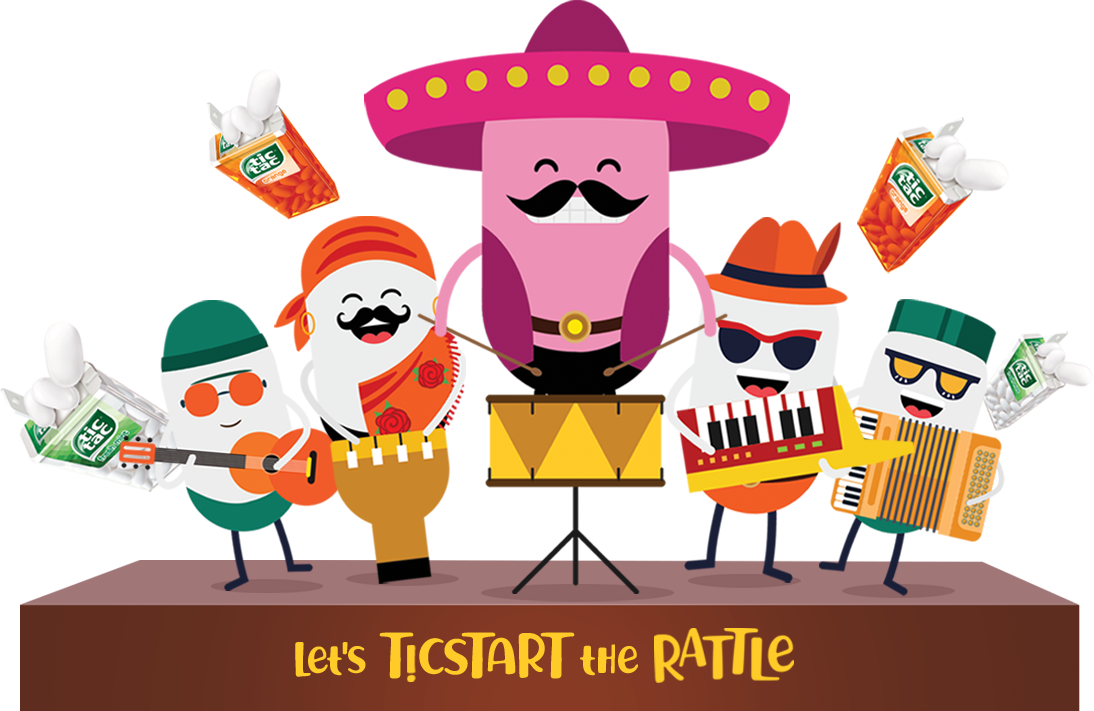
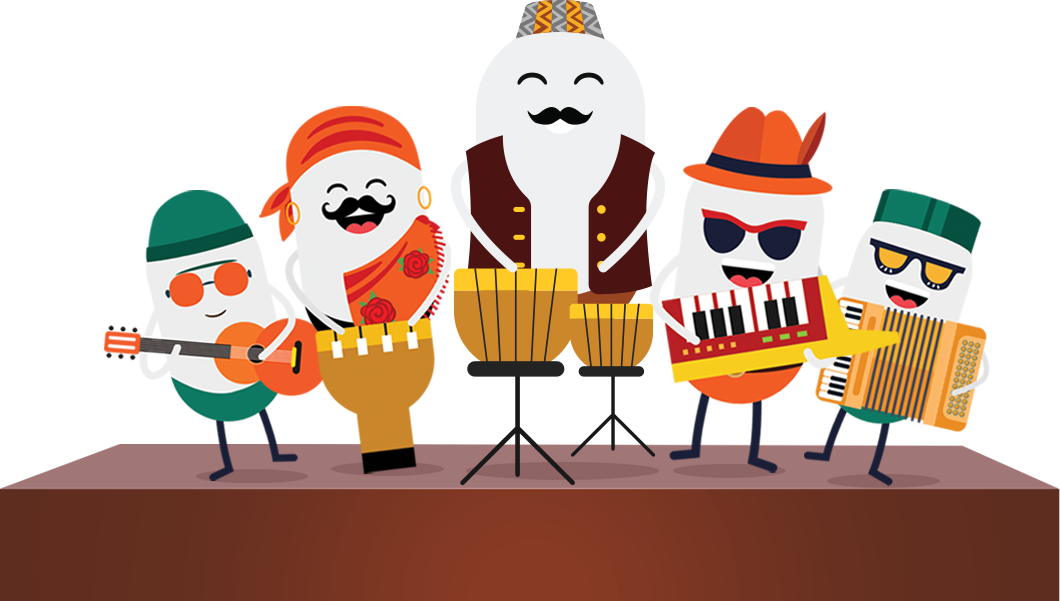
psd change

diff --git a/index.html b/index.html
@@ -40,21 +40,15 @@
     <ul class="navbar-nav ml-auto main-menu">
      
      <li class="nav-item active">
-      <a class="nav-link" href="#">band</a>
+      <a class="nav-link" href="#">demo</a>
     </li>
     <li class="nav-item">
-      <a class="nav-link hvr-sweep-to-right hvr-wobble-top" href="#music-lab">Music lab</a>
+      <a class="nav-link hvr-sweep-to-right hvr-wobble-top" href="#music-lab">about tic tac</a>
     </li>
     <li class="nav-item">
-      <a class="nav-link hvr-sweep-to-right hvr-wobble-top" href="#">blog</a>
+      <a class="nav-link hvr-sweep-to-right hvr-wobble-top" href="#">contact us</a>
     </li>
-    <li class="nav-item">
-      <a class="nav-link hvr-sweep-to-right hvr-wobble-top" href="#">videos</a>
-    </li>
-    
-    <li class="nav-item ">
-      <a class="nav-link hvr-sweep-to-right hvr-wobble-top" href="#">clips</a>
-    </li>
+  
     
 	
 	</ul>
@@ -62,21 +56,30 @@
 	  <ul class="navbar-nav social">
 	
     <li class="nav-item ">
-      <a class="nav-link hvr-float" href="#">f</a>
+      <a class="nav-link hvr-sink" href="#">f</a>
     </li>
     
     <li class="nav-item ">
-      <a class="nav-link hvr-float" href="#">t</a>
+      <a class="nav-link hvr-sink" href="#">t</a>
     </li>
     
     <li class="nav-item ">
-      <a class="nav-link hvr-float" href="#">i</a>
+      <a class="nav-link hvr-sink" href="#">i</a>
     </li>
     <li class="nav-item ">
-      <a class="nav-link hvr-float" href="#">v</a>
+      <a class="nav-link hvr-sink" href="#">v</a>
     </li>
     
     </ul>
+   
+    <ul class="navbar-nav login">
+	
+    <li class="nav-item ">
+      <a class="nav-link hvr-float" href="#">Sign up </a> | <a class="nav-link hvr-float" href="#">Login</a>
+    </li>
+    
+	</ul>
+   
    
   </div>
   
@@ -88,8 +91,9 @@
 
 
 <div class="container-fluid bg-slider" id="wrap">
-<div class="row">
+<div class="row bg-slider-raised">
 	<img data-aos="zoom-in" class="img-fluid main-bg hvr-buzz mx-auto d-block" src="assets/images/cartoon.png"/>
+	<div class="bg-slider-tictac "></div>
 </div>
 </div>
 
@@ -103,32 +107,27 @@
 
 <div class="row">
 
-	<div class="col-sm-4" data-aos="zoom-in-up">
+	<div class="col-sm-6 text-center" data-aos="zoom-in-up">
 		<a href="#">
 		<figure class="hvr-grow-rotate"><img src="assets/images/peach_band.png" class="img-fluid mx-auto d-block"/></figure>
 		    <p class="text-center">Peach & Passion Band</p>
 		</a>
 	</div>
-	<div class="col-sm-4" data-aos="zoom-in-up">
-		<a href="#">
-		<figure class="hvr-grow-rotate"><img src="assets/images/strawberry_band.png" class="img-fluid mx-auto d-block"/></figure>
-		  <p class="text-center">Strawberry Mix Band</p>
-		  </a>
-	</div>
-	<div class="col-sm-4" data-aos="zoom-in-up">
+	
+	<div class="col-sm-6 text-center" data-aos="zoom-in-up">
 		<a href="#">
 		<figure class="hvr-grow-rotate"><img src="assets/images/orange_band.png" class="img-fluid mx-auto d-block"/></figure>
 		  <p class="text-center">Orange Band</p>
 		  </a>
 	</div>
 	
-	<div class="col-sm-4 offset-sm-2" data-aos="zoom-in-up">
+	<div class="col-sm-6 text-center" data-aos="zoom-in-up">
 		<a href="#">
 		<figure class="hvr-grow-rotate"><img src="assets/images/spearmint_band.png" class="img-fluid mx-auto d-block"/></figure>
 		  <p class="text-center">Spearmint Band</p>
 		  </a>
 	</div>
-	<div class="col-sm-4" data-aos="zoom-in-up">
+	<div class="col-sm-6 text-center" data-aos="zoom-in-up">
 		<a href="#">
 		<figure class="hvr-grow-rotate"><img src="assets/images/fresh_mind_band.png" class="img-fluid mx-auto d-block"/></figure>
 		  <p class="text-center">Fresh Mint Band</p>

diff --git a/assets/css/custom.css b/assets/css/custom.css
@@ -3,7 +3,7 @@ html {
   scroll-behavior: smooth;
 }
 body{
-	background-color:#47d8ff;
+	background-color:#fff;
 	overflow-x:hidden;
 	
 }
@@ -22,14 +22,75 @@ body{
     position: absolute;
     left: 0;
     top: 1%;
+	z-index:99;
+	    width: 19%;
+    top: 28px;
 }
 
+.bg-slider img{
+	    z-index: 999;
+}
 .bg-slider{
-	background-image:url('../images/bg.png');
+	background-image:url('../images/slider_bg_raise.png');
 	    background-repeat: no-repeat;
     background-size: cover;
-	
+	    position: relative;
+	min-height: 550px;
 }
+
+
+.bg-slider-tictac {
+    background-image: url(../images/tictac_slider.png);
+    background-repeat: no-repeat;
+    background-size: cover;
+    width: 100%;
+    min-height: 620px;
+    position: absolute;
+    background-size: 51%;
+    /* right: 0; */
+    background-position: center;
+    /* left: 0; */
+    background-position-y: 79px;
+    margin: 0 auto;
+	/* animation */
+	 -webkit-animation-name: hvr-tictac;
+  animation-name: hvr-tictac;
+  -webkit-animation-duration: 1s;
+  animation-duration: 1s;
+  -webkit-animation-timing-function: linear;
+  animation-timing-function: linear;
+  -webkit-animation-iteration-count: infinite;
+  animation-iteration-count: infinite;
+  
+   display: inline-block;
+  vertical-align: middle;
+  -webkit-transform: perspective(1px) translateZ(0);
+  transform: perspective(1px) translateZ(0);
+  box-shadow: 0 0 1px rgba(0, 0, 0, 0);
+}
+
+
+@-webkit-keyframes hvr-tictac {
+  25% {
+    -webkit-transform: scale(1.1);
+    transform: scale(1.1);
+  }
+  75% {
+    -webkit-transform: scale(0.9);
+    transform: scale(0.9);
+  }
+}
+@keyframes hvr-tictac {
+  25% {
+    -webkit-transform: scale(1.1);
+    transform: scale(1.1);
+  }
+  75% {
+    -webkit-transform: scale(0.9);
+    transform: scale(0.9);
+  }
+}
+
 
 .bg-music-lab{
 	background: #65c6f2;
@@ -202,7 +263,7 @@ footer {
     font-size: 48px;
     line-height: 0.99;
      padding: 0 !important;
-	 color:white;
+	 /* color:white; */
 }
 
 .social {
@@ -212,8 +273,8 @@ footer {
 .navbar-light .navbar-nav.main-menu .nav-link {
     font-family: 'Montserrat', sans-serif;
     text-transform: uppercase;
-    background: white;
-    color: #0a6c87;
+    background: #008d65;
+    color: #fff;
     margin: 0 9px;
     padding: 3px 15px 0;
     border-radius: 9px;
@@ -227,15 +288,19 @@ footer {
 }
 
 .bg-slider img {
-    width: 44%;
-    padding: 48px 0 0;
-    height: 40%;
+    width: 47%;
+    padding: 60px 0 0 0;
+    /* height: 40%; */
+    position: absolute;
+    bottom: 0;
+    margin: 0 auto;
+    left: 0;
+    right: 0;
 }
-
 .bg-music-lab h1 {
-    font-family: 'Montserrat', sans-serif;
+    font-family: 'Richela', sans-serif;
     font-weight: bolder;
-    color: white;
+    color: #0d7963;
 	    text-align: center;
     width: 100%;
 	margin-bottom: 46px;
@@ -261,7 +326,7 @@ footer {
 
 
 .meet_the_band h1 {
-    font-family: 'Montserrat', sans-serif;
+    font-family: 'Richela', sans-serif;
     font-weight: bolder;
     color: #04c0f4;
 	    text-align: center;
@@ -406,4 +471,18 @@ color:black;
 }
 #myBtn:hover {
   background-color: #555;
+}
+
+ul.navbar-nav.login {
+    position: absolute;
+    right: 6px;
+    top: -30px;
+}
+
+nav.navbar.navbar-expand-lg.navbar-light {
+    min-height: 116px;
+}
+
+nav.navbar.navbar-expand-lg.navbar-light {
+    min-height: 116px;
 }

diff --git a/assets/js/custom.js b/assets/js/custom.js
@@ -13,20 +13,20 @@ $( document ).ready(function() {
 	
 	//movebg
 	
-	var moveForce = 30; // max popup movement in pixels
-var rotateForce = 20; // max popup rotation in deg
+	var moveForce = 15; // max popup movement in pixels
+var rotateForce = 10; // max popup rotation in deg
 
 $(document).mousemove(function(e) {
     var docX = $(document).width();
     var docY = $(document).height();
     
-    var moveX = (e.pageX - docX/33) / (docX/33) * -moveForce;
-    var moveY = (e.pageY - docY/33) / (docY/33) * -moveForce;
+    var moveX = (e.pageX - docX/2) / (docX/2) * -moveForce;
+    var moveY = (e.pageY - docY/2) / (docY/2) * -moveForce;
     
-    var rotateY = (e.pageX / docX * rotateForce*33) - rotateForce;
+    var rotateY = (e.pageX / docX * rotateForce*2) - rotateForce;
     var rotateX = -((e.pageY / docY * rotateForce*2) - rotateForce);
     
-    $('.main-abg')
+    $('.bg-slider-tictac')
         .css('left', moveX+'px')
         .css('top', moveY+'px')
         .css('transform', 'rotateX('+rotateX+'deg) rotateY('+rotateY+'deg)');
